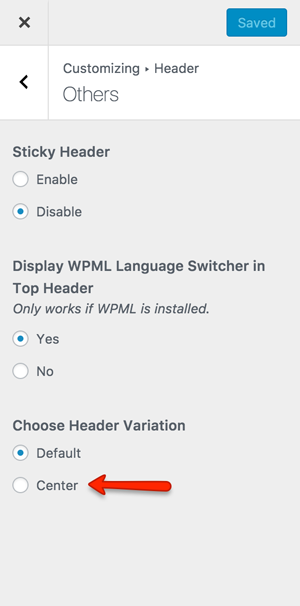
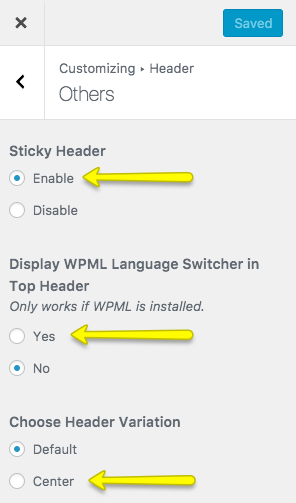
Improve: Setting Up Homepage → Header Settings
The section of Header Settings is improved.

diff --git a/index.html b/index.html
@@ -802,13 +802,13 @@
 
                             <h3>Header</h3>
                             <p>
-                                You can customize almost all the components of header from related section in header panel.
+                                You can customize almost all the components of the header from this relevant section in header panel.
                             </p>
                             <img class="light-border" src="assets/realhomes/header/3.png" alt="Real Homes Theme Documentation"/>
 
                             <h3>Header Variation</h3>
                             <p>
-                                To change header variation please navigate to <strong>Dashboard</strong> &rarr; <strong>Appearance</strong> &rarr; <strong>Customize</strong> &rarr; <strong>Header</strong> &rarr; <strong>Others</strong> and select Center for the option which says <strong>Choose Header Variation</strong>.
+                                To change header variation please navigate to <strong>Dashboard</strong> &rarr; <strong>Appearance</strong> &rarr; <strong>Customize</strong> &rarr; <strong>Header</strong> &rarr; <strong>Others</strong> and select Center for the option which says <strong>Choose Header Variation</strong>. You can also <strong>Enable/Disable</strong> the <strong>Sticky Header</strong> in this section.
                             </p>
                             <img class="light-border" src="assets/realhomes/header/header-variation-center.png" alt="Header Center Variation"/>
 
